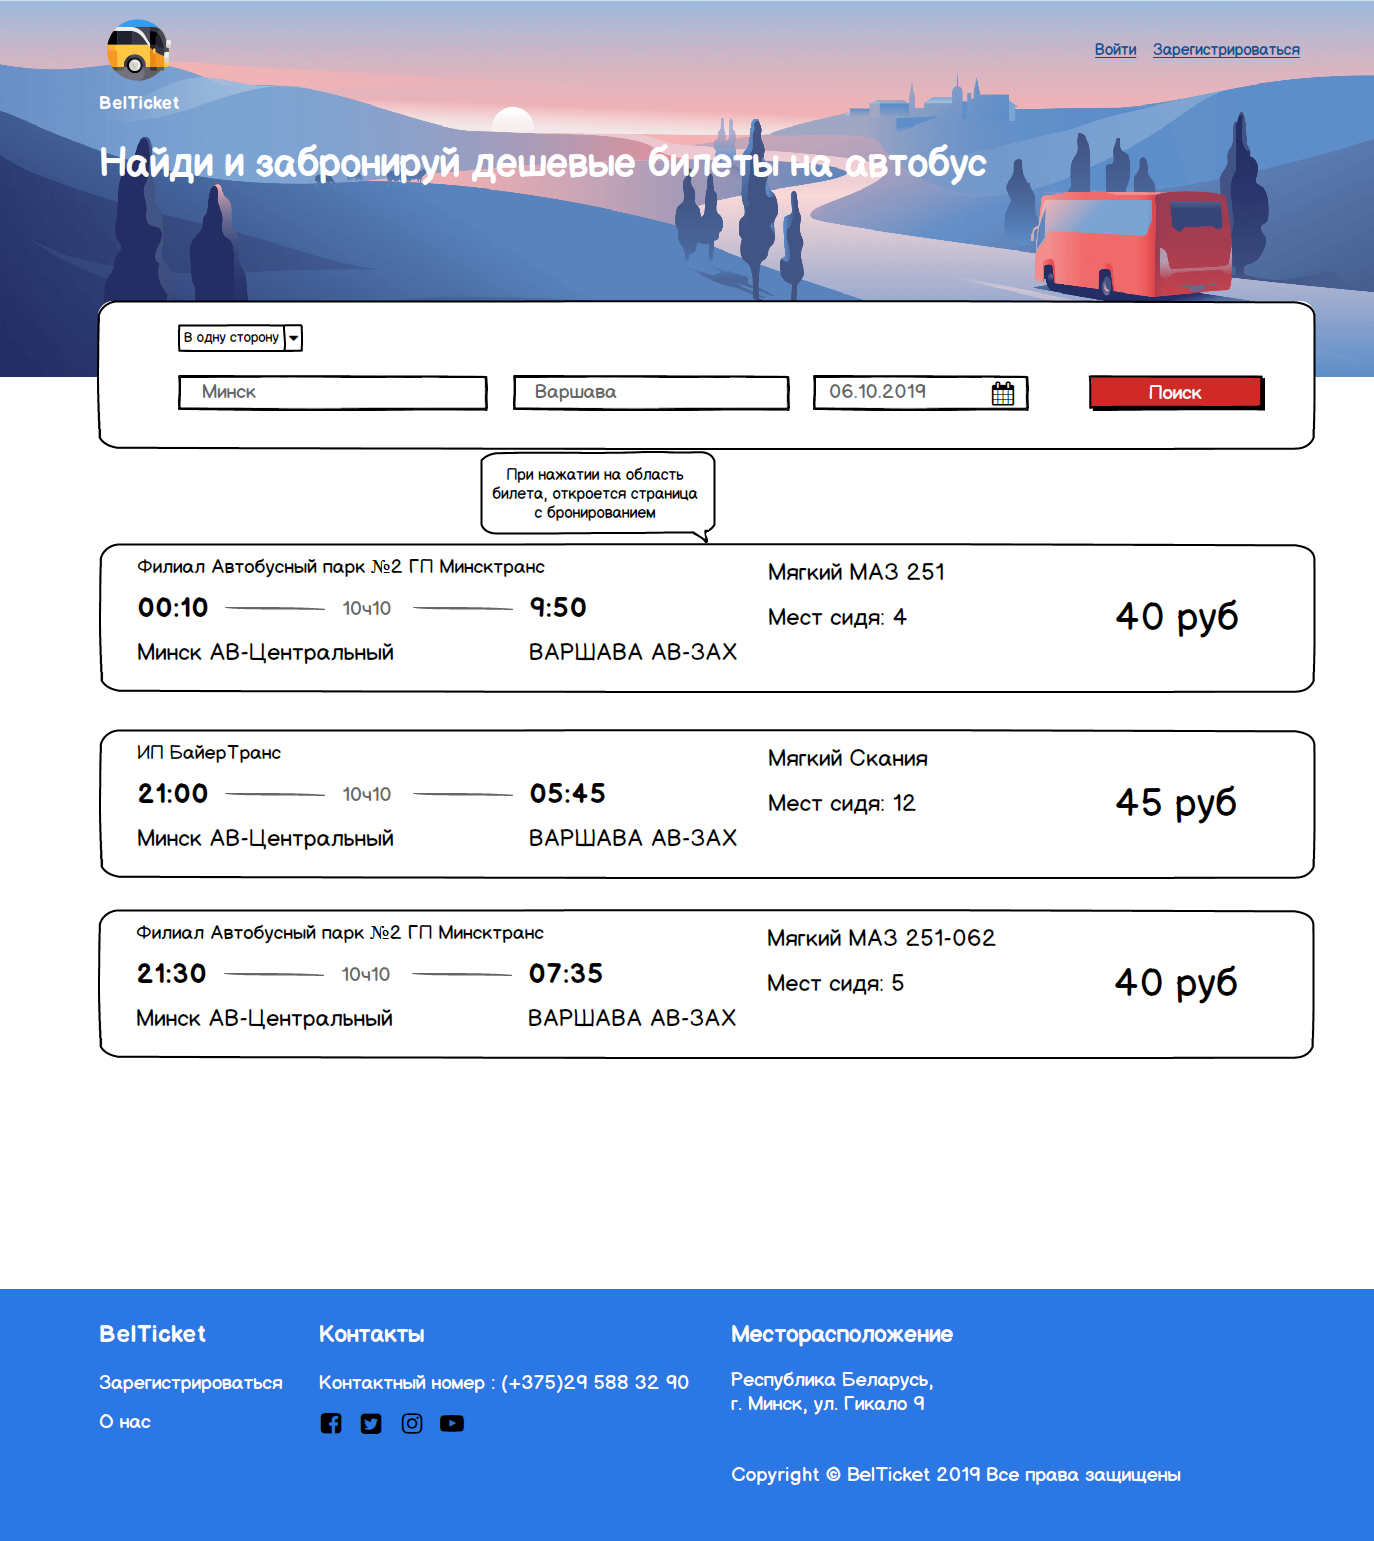
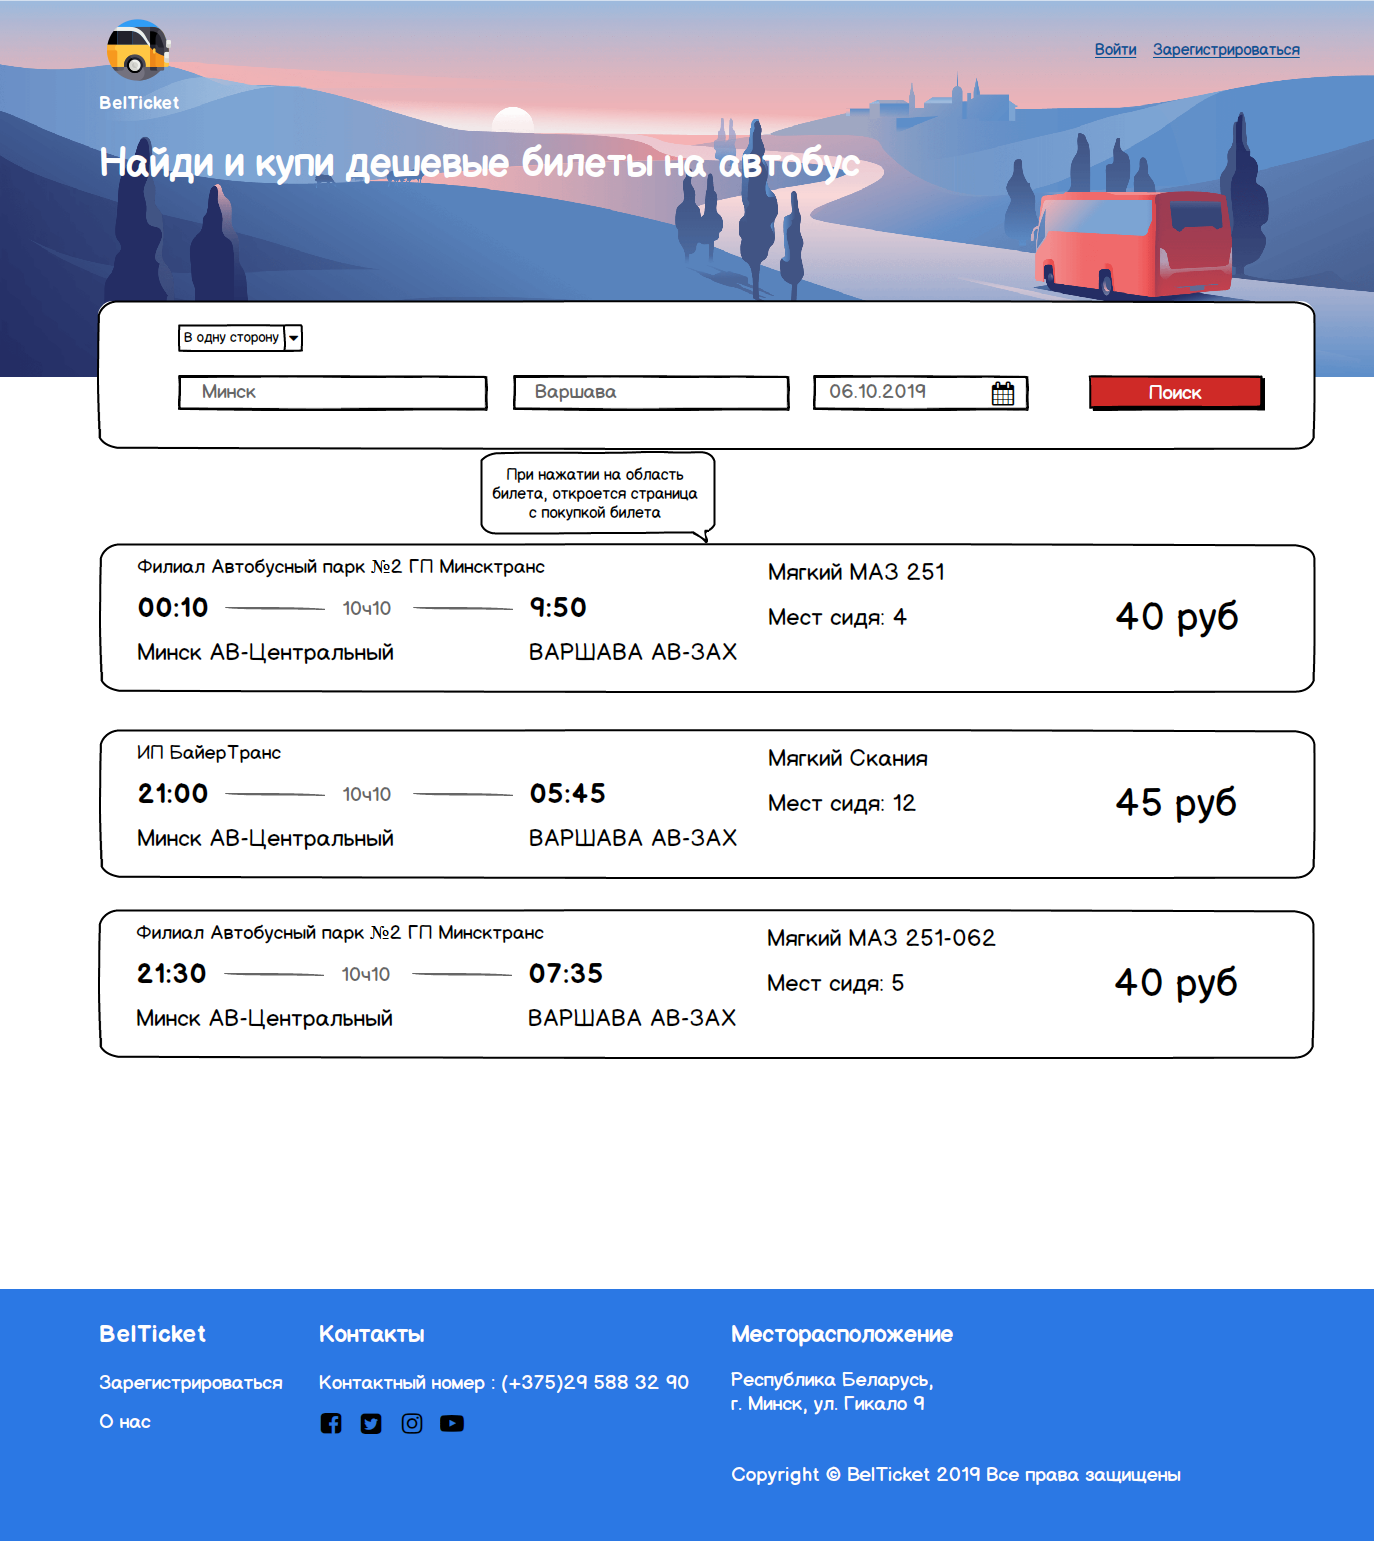
Updated Requirements Document and some mockups.

Changed region(s): [[0.1834, 0.0934, 0.7336, 0.1246], [0.3974, 0.3115, 0.4891, 0.3426]]

diff --git a/Documents/Requirements/Requirements Document.md b/Documents/Requirements/Requirements Document.md
@@ -20,16 +20,21 @@
 3.1 [Функциональные требования](#functional_requirements)  
 3.1.1 [Вход пользователя на сайт](#user_logon_to_the_site)  
 3.1.2 [Настройка аккаунта активного пользователя](#setting_up_the_account_of_the_active_user)  
-3.1.3 [Просмотр совершенных заказов](#completed_orders)  
+3.1.3 [Просмотр приобретенных билетов](#purchased_tickets)  
 3.1.4 [Выход пользователя из учётной записи](#active_user_change)  
 3.1.5 [Поиск доступных билетов](#search_for_tickets)  
-3.1.6 [Бронирование](#booking)  
+3.1.6 [Покупка билетов](#purchase)  
 3.2 [Нефункциональные требования](#non-functional_requirements)  
 3.2.1 [Атрибуты качества](#quality_attributes)  
 3.2.1.1 [Требования к удобству использования](#requirements_for_ease_of_use)  
 3.2.1.2 [Требования к безопасности](#security_requirements)  
 3.2.2 [Внешние интерфейсы](#external_interfaces)  
-3.2.3 [Ограничения](#restrictions)  
+3.2.3 [Ограничения](#restrictions)
+
+# Глоссарий
+
+* Анонимный пользователь — посетитель сайта, не прошедший процедуру авторизации.
+* База данных - коллекция всей информации, отслеживаемой этой системой.
 
 <a name="intro"/>
 
@@ -52,7 +57,7 @@
 <a name="business_opportunities"/>
 
 ### 1.2.2 Возможности бизнеса
-Веб-сайт «BelTicket» с бронированием автобусных билетов призван упростить и ускорить процесс покупки автобусного билета.
+Веб-сайт «BelTicket» с продажей автобусных билетов призван упростить и ускорить процесс покупки автобусного билета.
 
 <a name="project_boundary"/>
 
@@ -100,12 +105,12 @@
 ![Главная страница веб-сайта (зарегистрированный пользователь)](../../Images/Mockups/MainPage(LoggedIn).png) 
 Главная страница веб-сайта с найденным маршрутом.  
 ![Главная страница веб-сайта с найденным маршрутом](../../Images/Mockups/SearchTickets.png)   
-Cтраница веб-сайта с бронированием билета.  
-![Cтраница веб-сайта с бронированием билета](../../Images/Mockups/Booking.png)  
+Cтраница веб-сайта с покупкой билета.  
+![Cтраница веб-сайта с покупкой билета](../../Images/Mockups/Purchase.png)  
 Страница с данными пользователя.  
 ![Страница с данными пользователя](../../Images/Mockups/UserData.png)
-Страница с совершенными заказами.
-![Страница с совершенными заказами](../../Images/Mockups/YourBookings.png)
+Страница с приобретенными билетами.
+![Страница с приобретенными билетами](../../Images/Mockups/YourTickets.png)
 
 <a name="user_specifications"/>
 
@@ -153,11 +158,11 @@ Cтраница веб-сайта с бронированием билета.
  
 **Требование.** Приложение должно предоставить зарегистрированному пользователю просматривать свои данные и редактировать их. Пользователь должен либо редактировать их и сохранить изменения, либо отменить действие, т.е. не нажимать на кнопку сохранения.
 
-<a name="completed_orders"/>
+<a name="purchased_tickets"/>
 
-#### 3.1.3 Просмотр совершенных заказов
+#### 3.1.3 Просмотр приобретенных билетов
 
-**Требование.** Веб-приложение должно предоставить зарегистрированному пользователю возможность просмотра списка совершенных заказов.
+**Требование.** Веб-приложение должно предоставить зарегистрированному пользователю возможность просмотра списка приобретенных билетов.
 
 <a name="active_user_change"/>
 
@@ -171,11 +176,11 @@ Cтраница веб-сайта с бронированием билета.
 
 **Требование.** Веб-приложение должно предоставить зарегистрированному пользователю интерфейс поиска доступных билетов и выбора параметров поиска, таких как источник, пункт назначения, дата поездки, тип поездки: в одну сторону или две, а также отобразить информацию о билетах: наименование перевозчика, станция отправления, станция прибытия, время отправления, время прибытия, время пути, тип автобуса, количество свободных мест и стоимость билета.
 
-<a name="booking"/>
+<a name="purchase"/>
 
-#### 3.1.6 Бронирование билетов
+#### 3.1.6 Покупка билетов
 
-**Требование.** Веб-приложение должно предоставить зарегистрированному пользователю интерфейс бронирования билета на автобус, т.е. возможность выбрать номер места, имя и фамилию пассажира, адрес электронной почты, номер телефона, номер паспорта и номер платежной карты, а также вывести итоговою сумму за билеты.
+**Требование.** Веб-приложение должно предоставить зарегистрированному пользователю интерфейс покупки билета на автобус, т.е. возможность выбрать номер места, имя и фамилию пассажира, адрес электронной почты, номер телефона, номер паспорта и номер платежной карты, вывести итоговою сумму за билет/билеты и оплатить заказ.
 
 <a name="non-functional_requirements"/>
 
